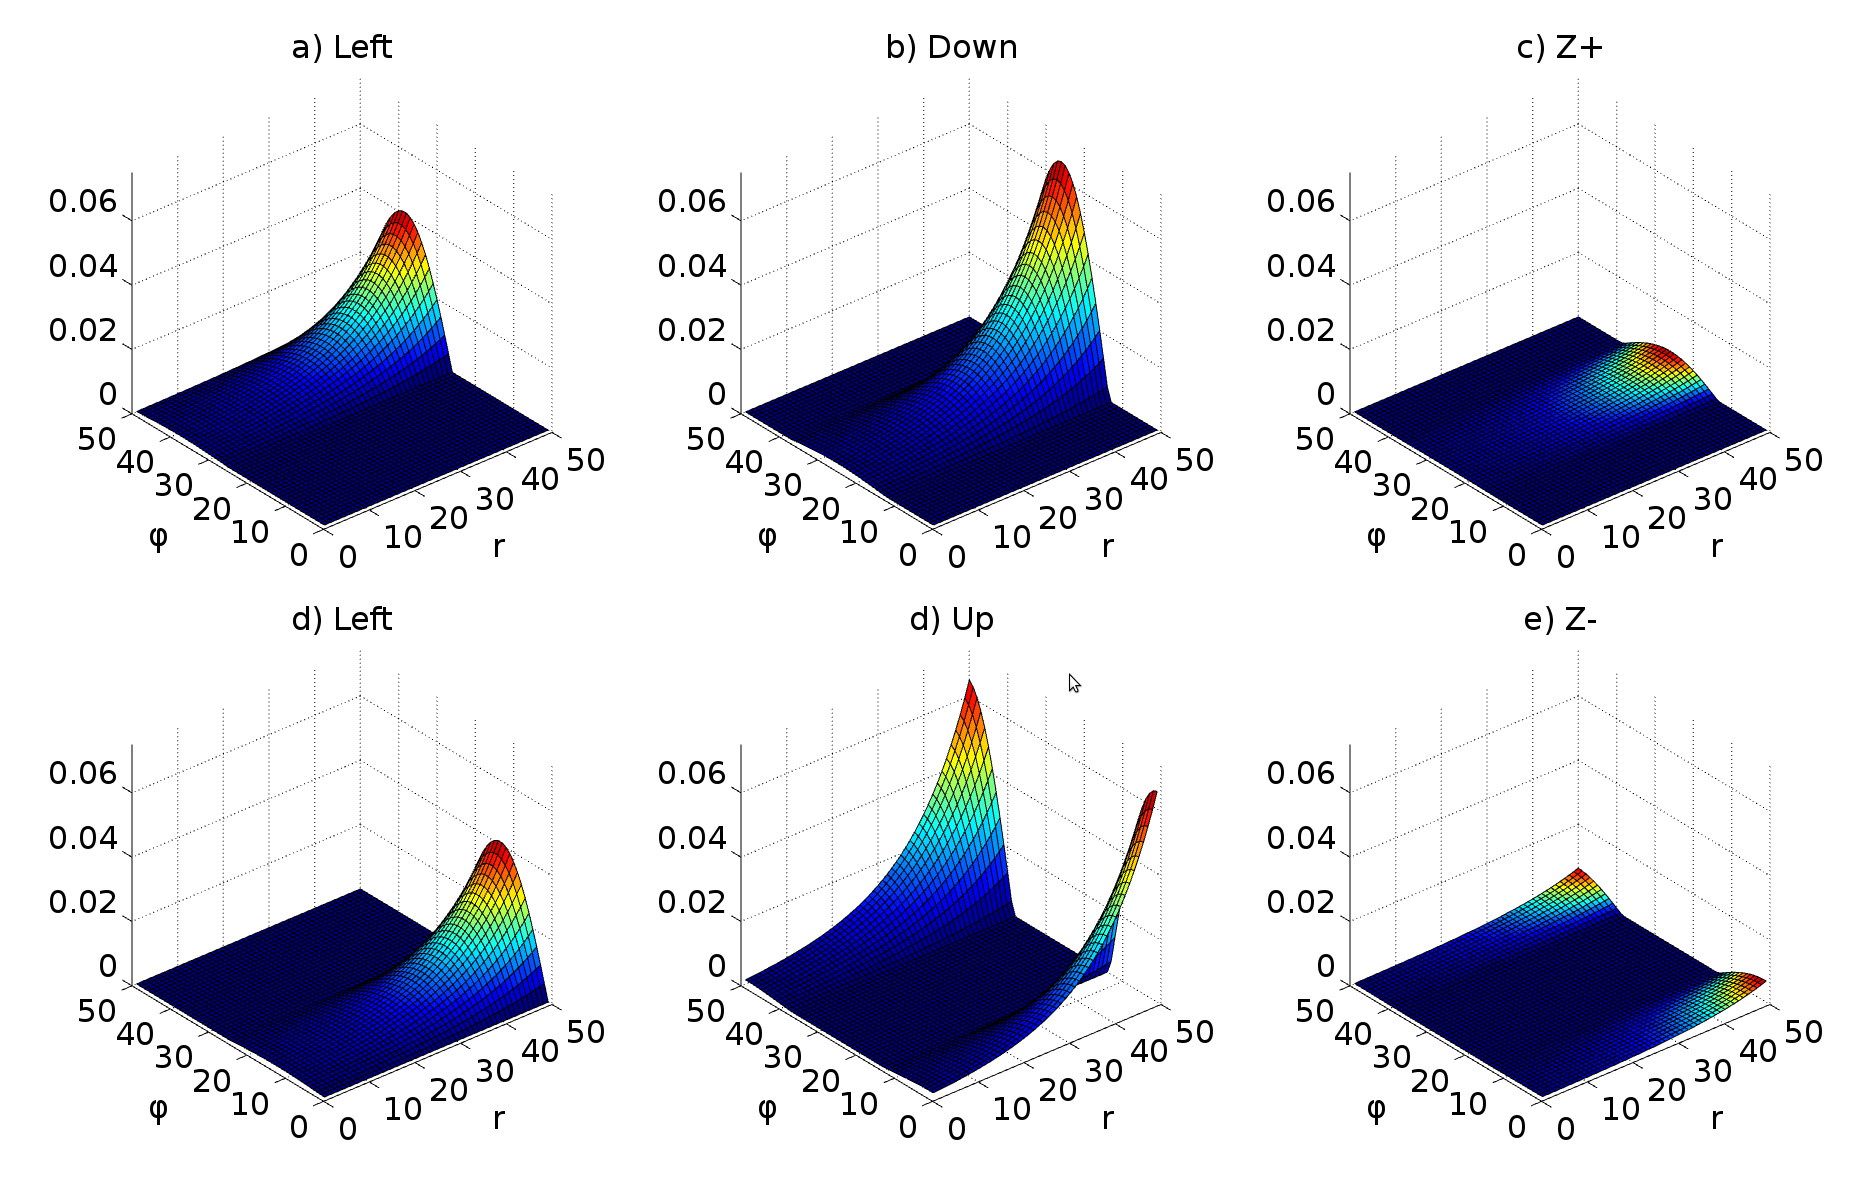
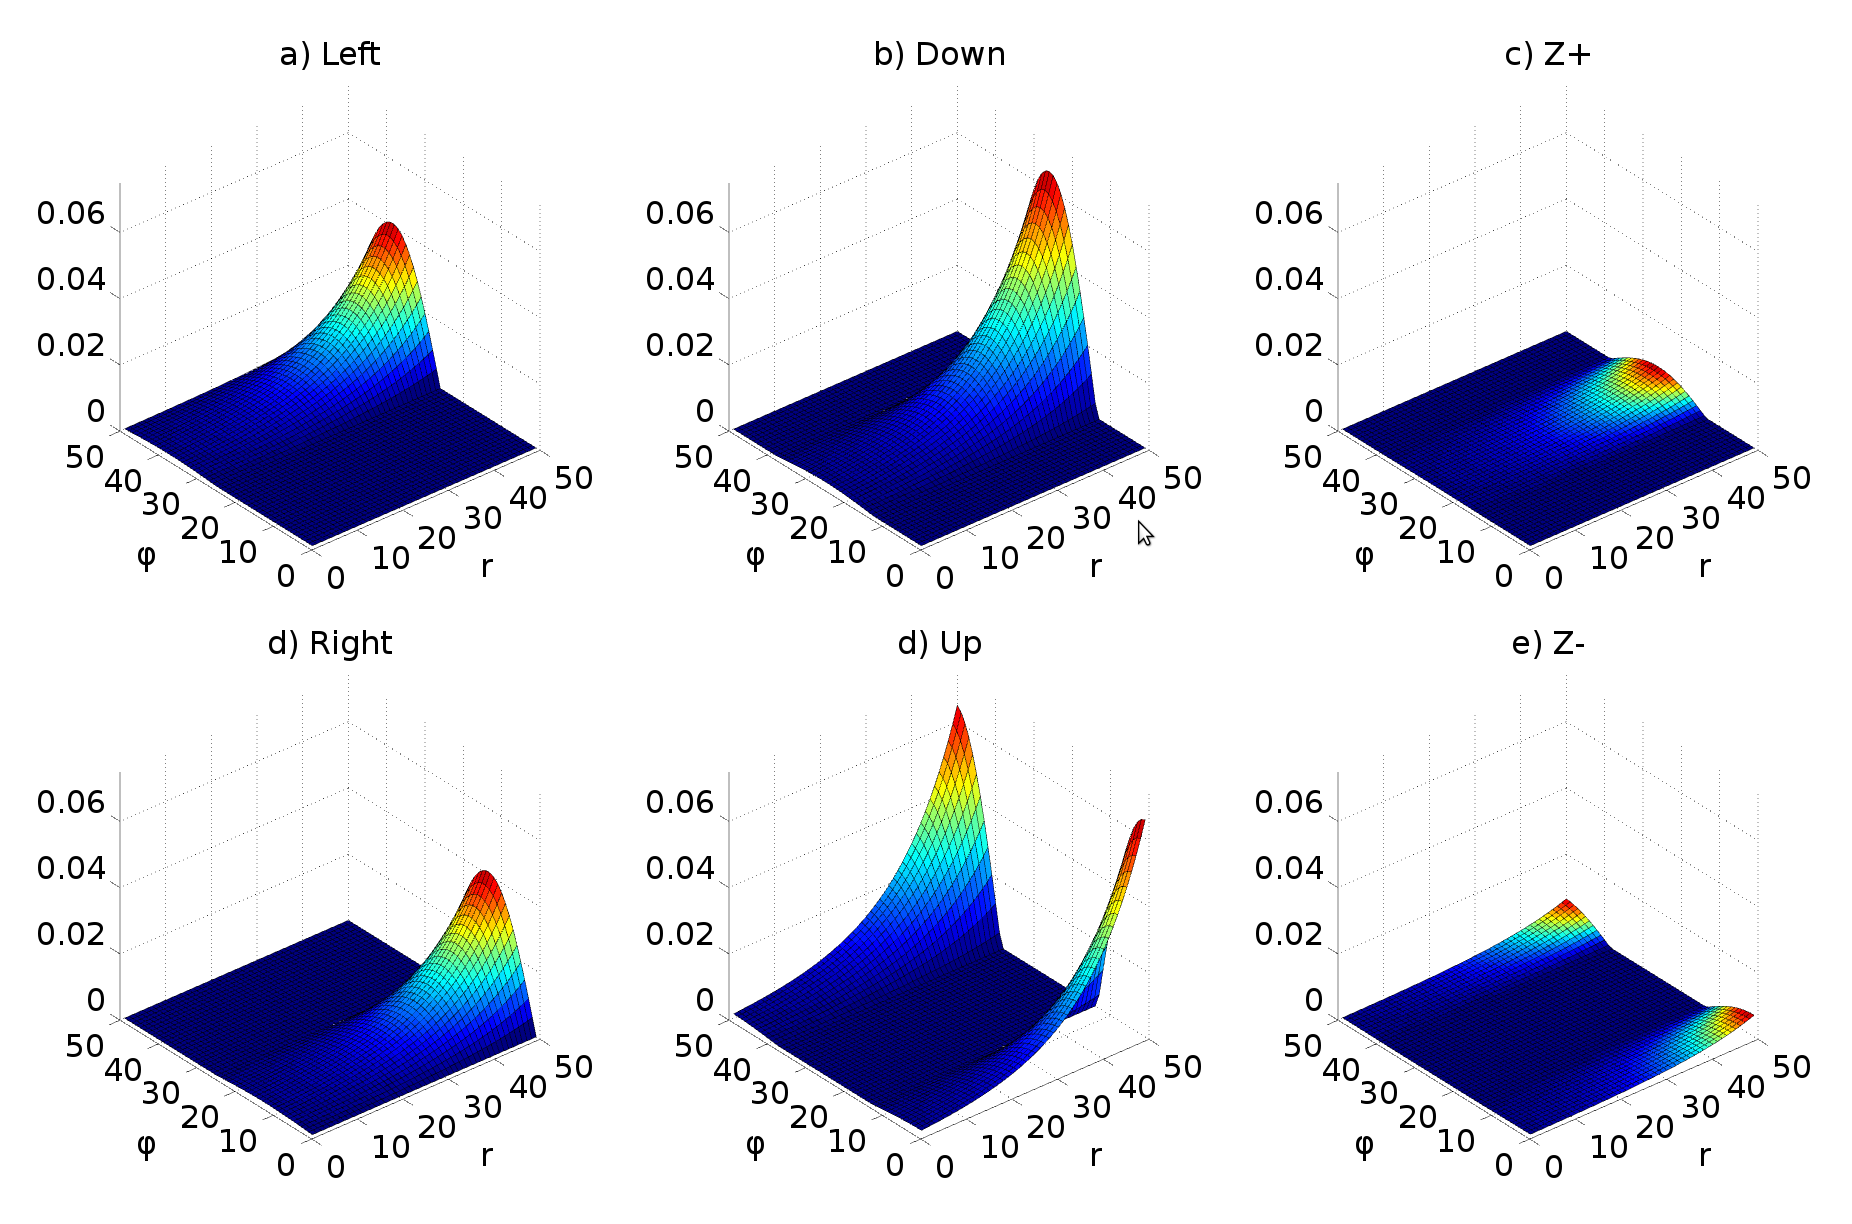
Update to weightmaps (a further update will be required)

diff --git a/batch_scripts/analysis/plot_sbg_forpaper.m b/batch_scripts/analysis/plot_sbg_forpaper.m
@@ -131,7 +131,7 @@ hyl(4)=ylabel(targytxt, 'fontsize', fs1);
 %hzl(4)=zlabel('Weight', 'fontsize', fs1);
 %offsetzlabel(hzl(4));
 
-title (['d) Left'], 'fontsize', fs1);
+title (['d) Right'], 'fontsize', fs1);
 view([viewx viewy]);
 zlim([0 zmax]);
 
